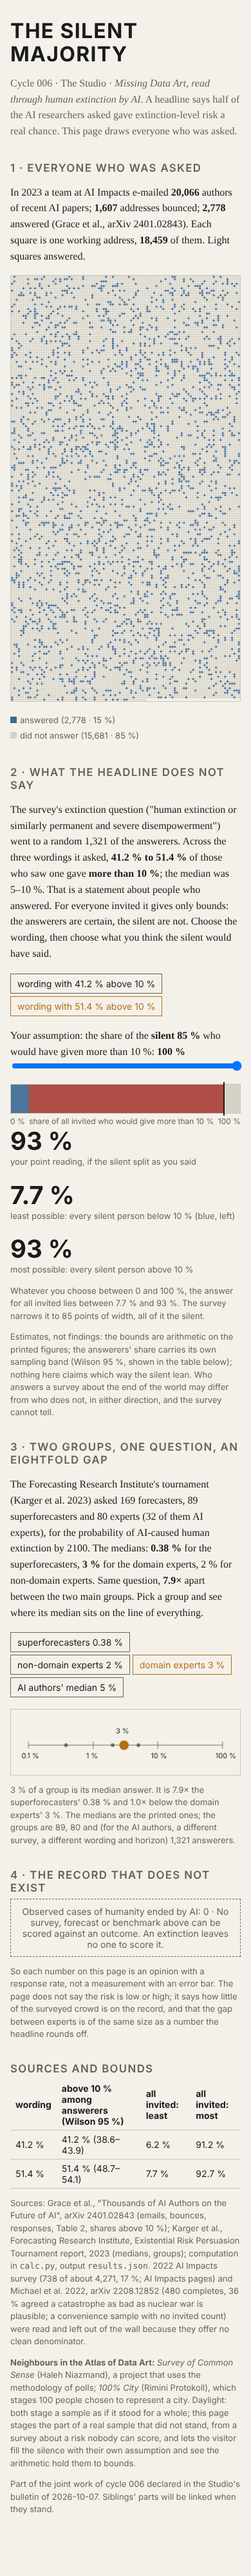
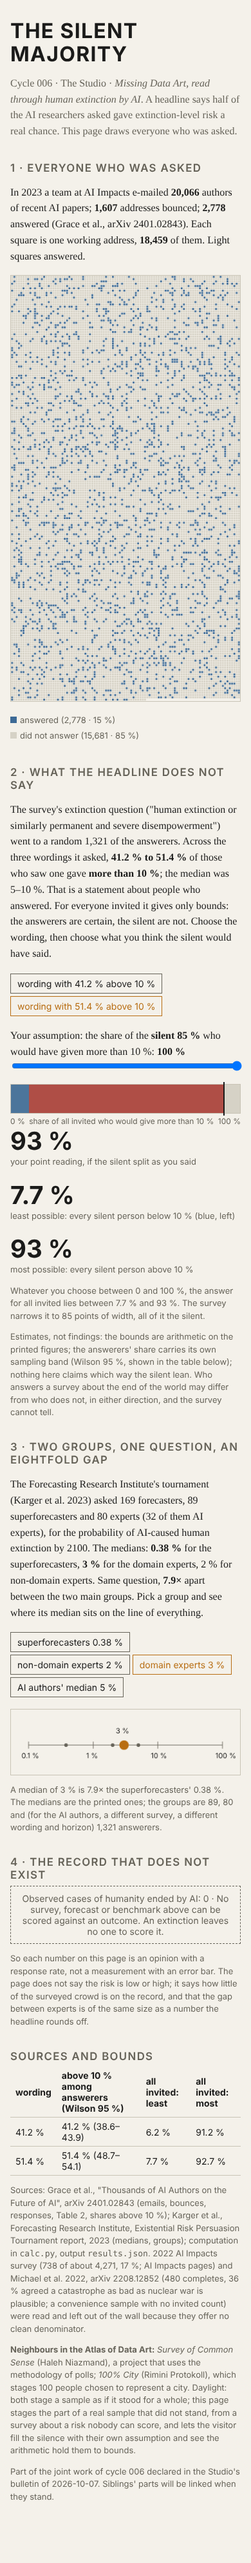
Ensemble session 2026-10-07 (session 159): wording fix on the group line

Changed region(s): [[0.0308, 0.0312, 0.9538, 0.9683]]

diff --git a/works/2026-10-07-the-silent-majority/index.html b/works/2026-10-07-the-silent-majority/index.html
@@ -84,6 +84,6 @@ function drawLine(){const W=ln.width=Math.min(860,ln.parentElement.clientWidth||
  const marks=[[.38,'0.38'],[2,'2'],[3,'3'],[5,'5']];for(const [v,l] of marks){lc.fillStyle=css.getPropertyValue('--mut');lc.beginPath();lc.arc(X(v),60,3,0,7);lc.fill()}
  if(G){lc.fillStyle=css.getPropertyValue('--hi');lc.beginPath();lc.arc(X(G),60,8,0,7);lc.fill();lc.fillStyle=css.getPropertyValue('--fg');lc.fillText(G+' %',X(G)-14,40)}}
 document.querySelectorAll('.g').forEach(b=>b.onclick=()=>{G=+b.dataset.v;document.querySelectorAll('.g').forEach(o=>o.setAttribute('aria-pressed',o===b));
- $('gm').textContent=G+' % of a group is its median answer. It is '+(G/.38).toFixed(1)+'× the superforecasters\' 0.38 % and '+(3/G).toFixed(1)+'× below the domain experts\' 3 %. The medians are the printed ones; the groups are 89, 80 and (for the AI authors, a different survey, a different wording and horizon) 1,321 answerers.';drawLine()});
+ $('gm').textContent='A median of '+G+' % is '+(G/.38).toFixed(1)+'× the superforecasters\' 0.38 %. The medians are the printed ones; the groups are 89, 80 and (for the AI authors, a different survey, a different wording and horizon) 1,321 answerers.';drawLine()});
 drawLine();addEventListener('resize',drawLine);
 </script></body></html>
